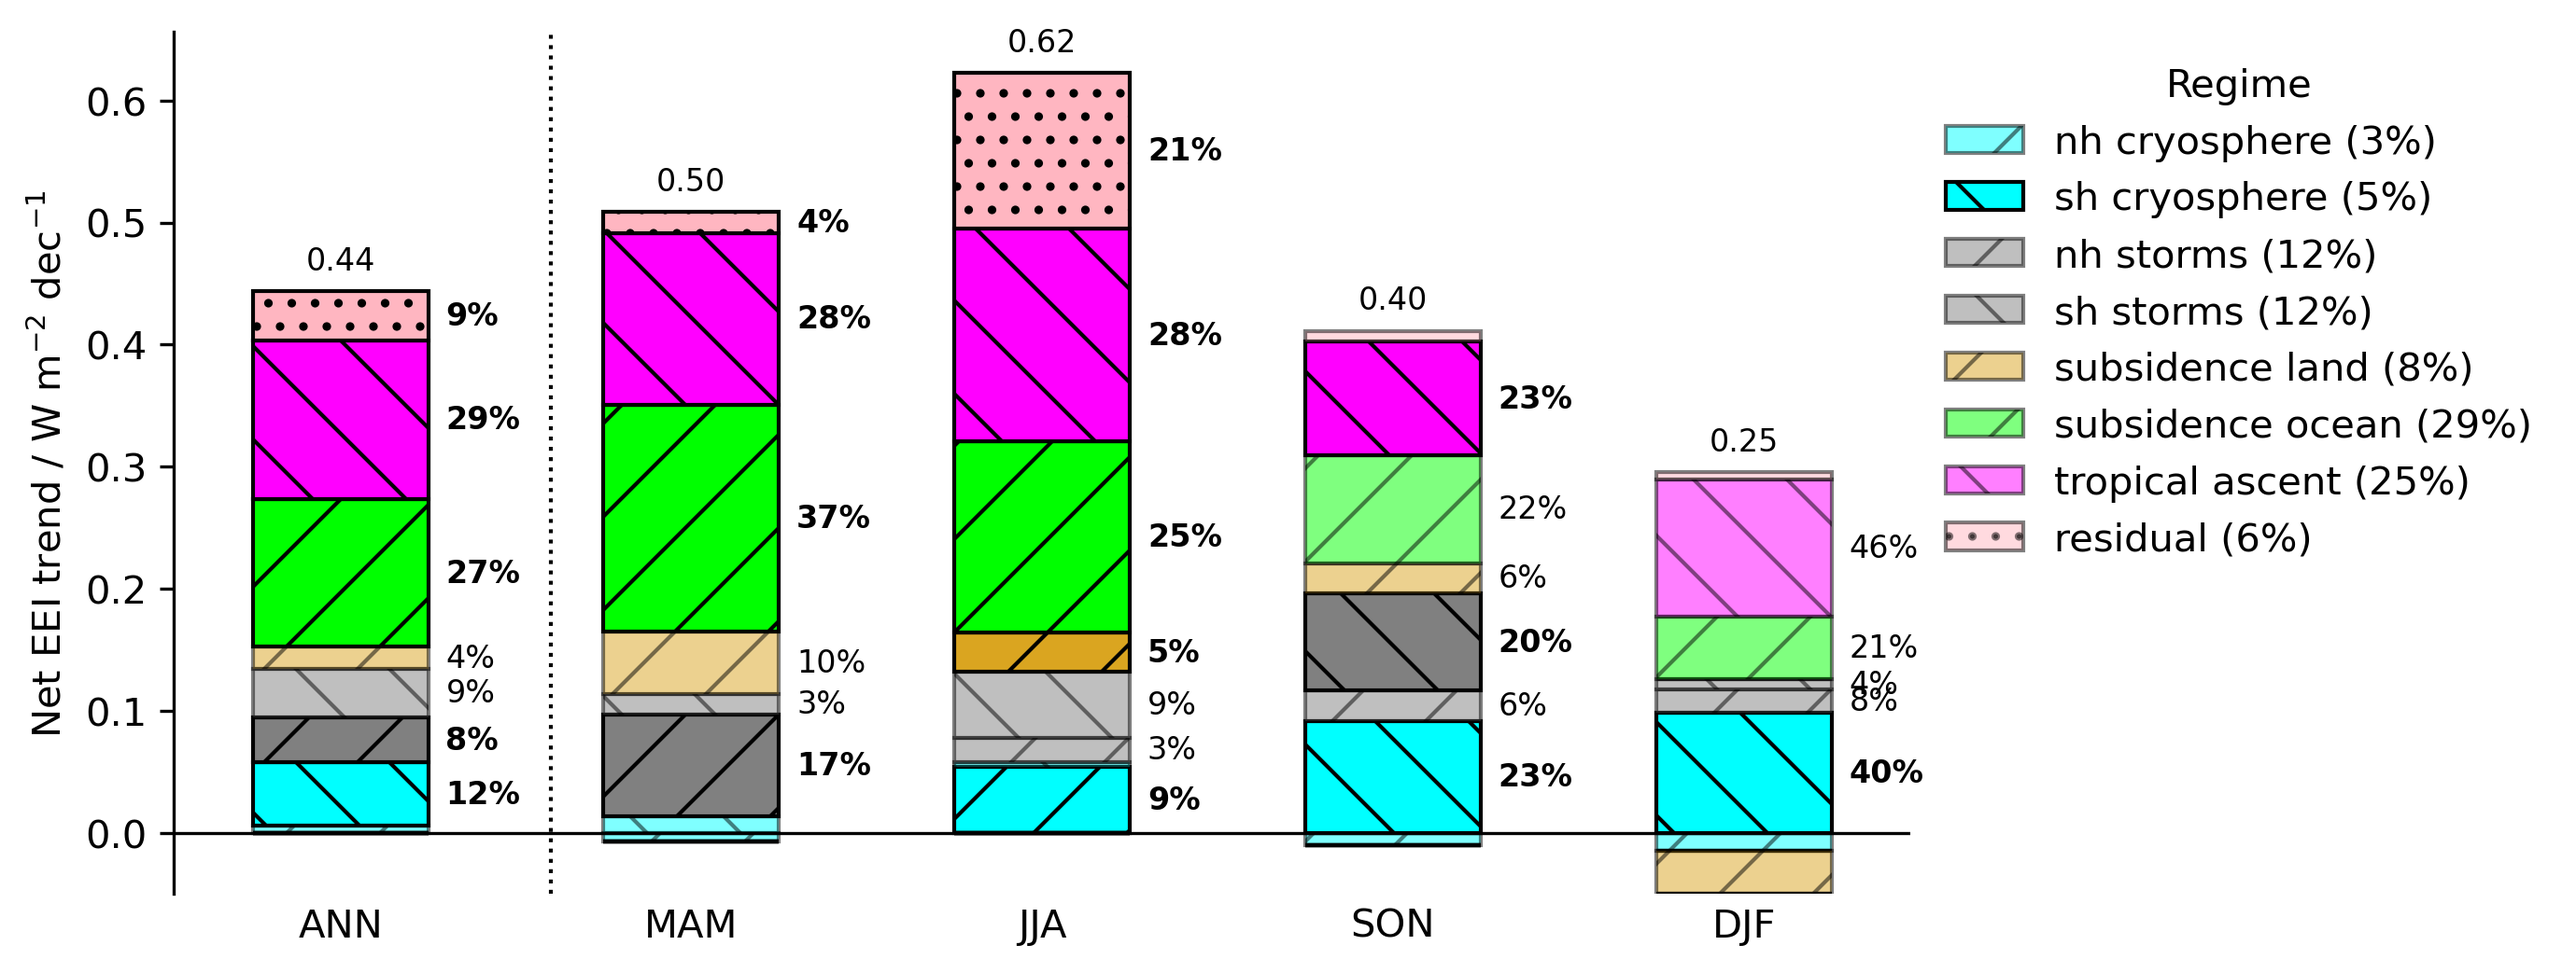
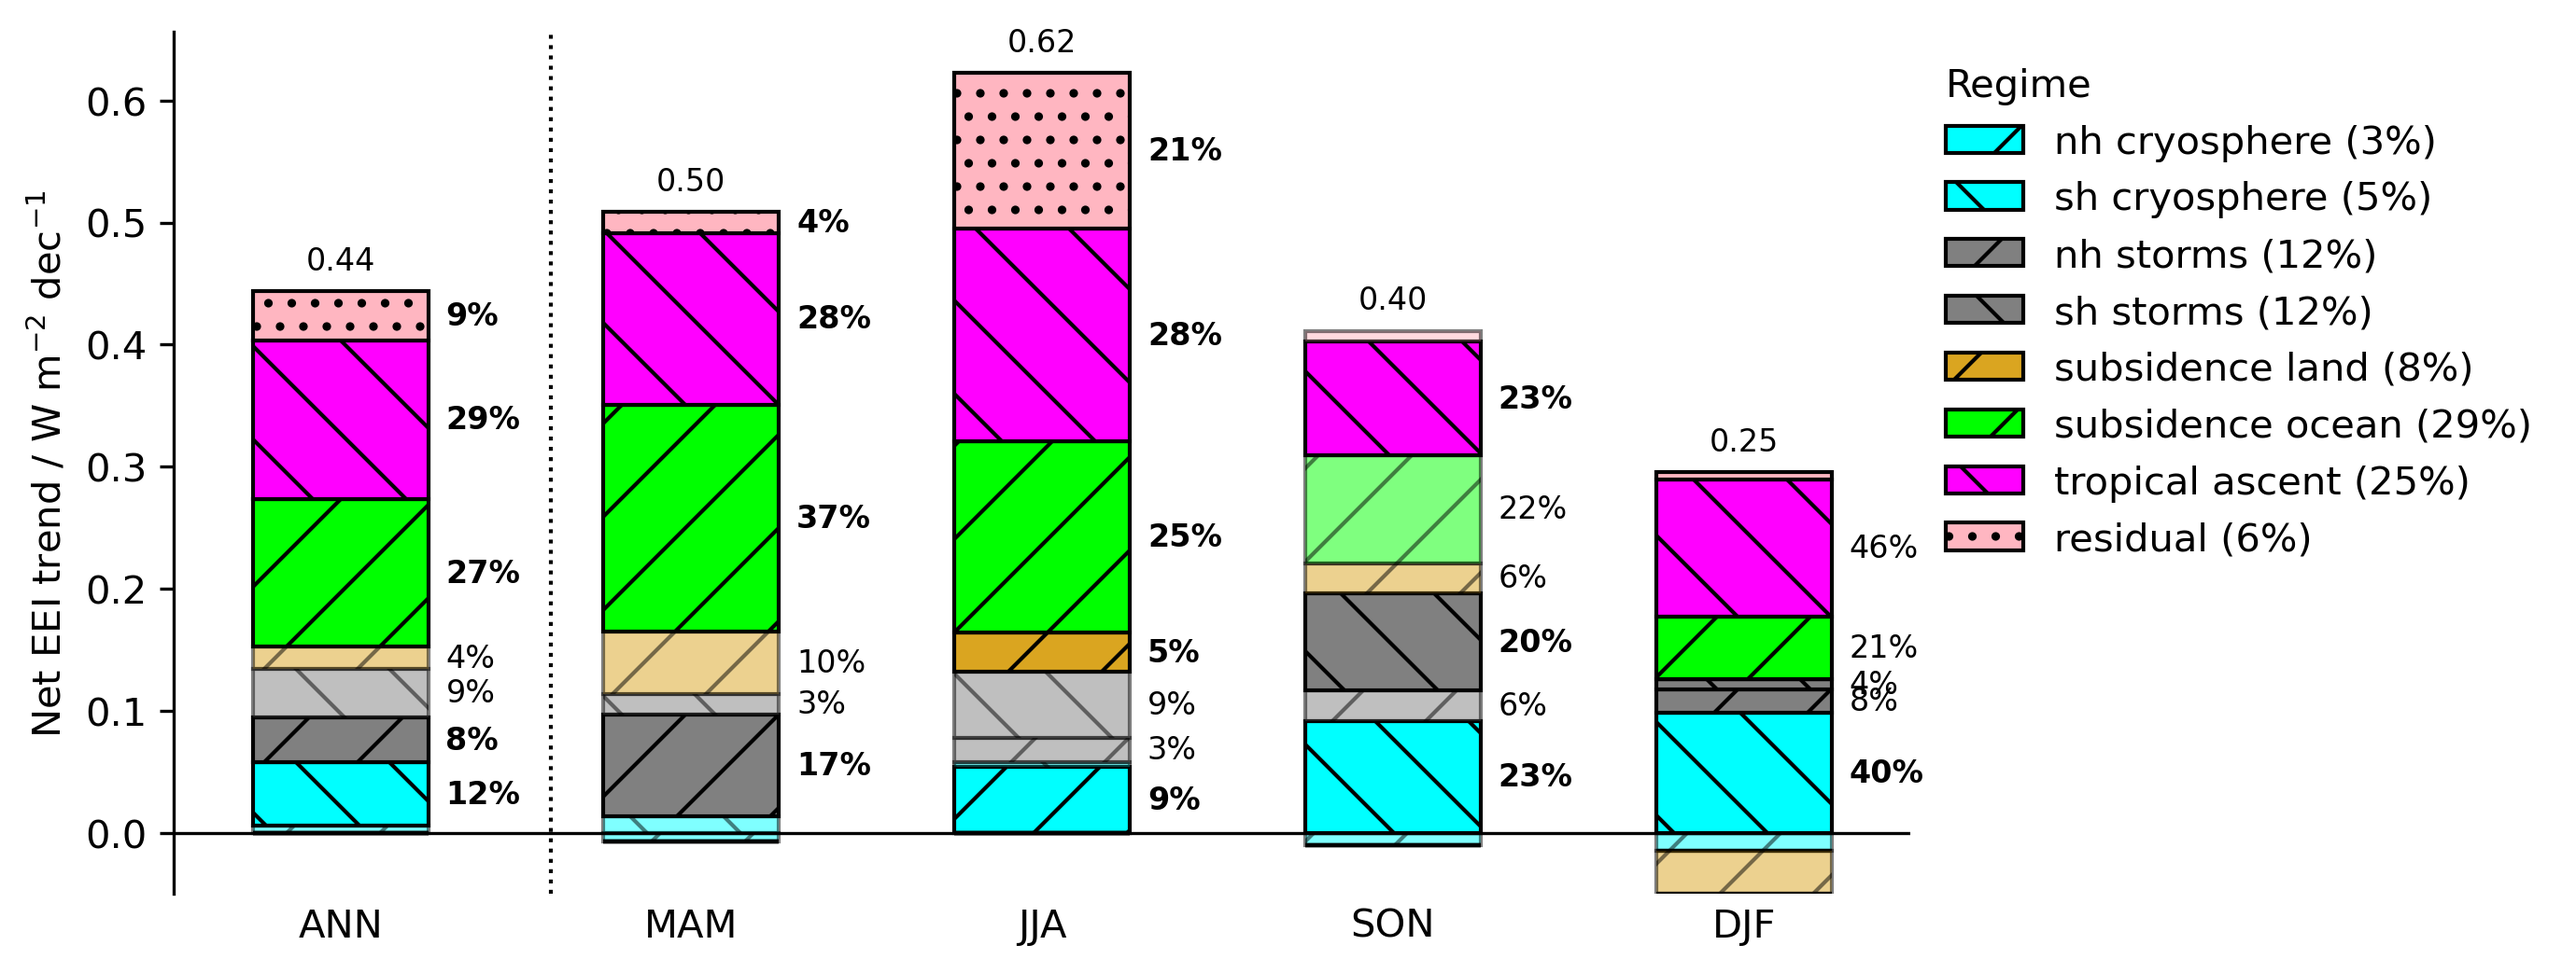
fix legend

diff --git a/make_figs/figure_contributions_barchart.py b/make_figs/figure_contributions_barchart.py
@@ -111,6 +111,10 @@ for i, total in enumerate(totals):
 handles, labels = ax.get_legend_handles_labels()
 by_label = dict(zip(labels, handles))
 
+# force legend handles to be fully opaque
+for h in by_label.values():
+    h[0].set_alpha(1)
+
 # build new labels with area fraction
 legend_labels = [
     f"{r.replace("_"," ")} ({area_ann.sel(regime=r)*100:.0f}%)"
@@ -121,6 +125,7 @@ ax.legend(
     by_label.values(),
     legend_labels,
     title="Regime",
+    alignment="left",
     bbox_to_anchor=(1.0, 1.0),
     loc="upper left",
     frameon=False
